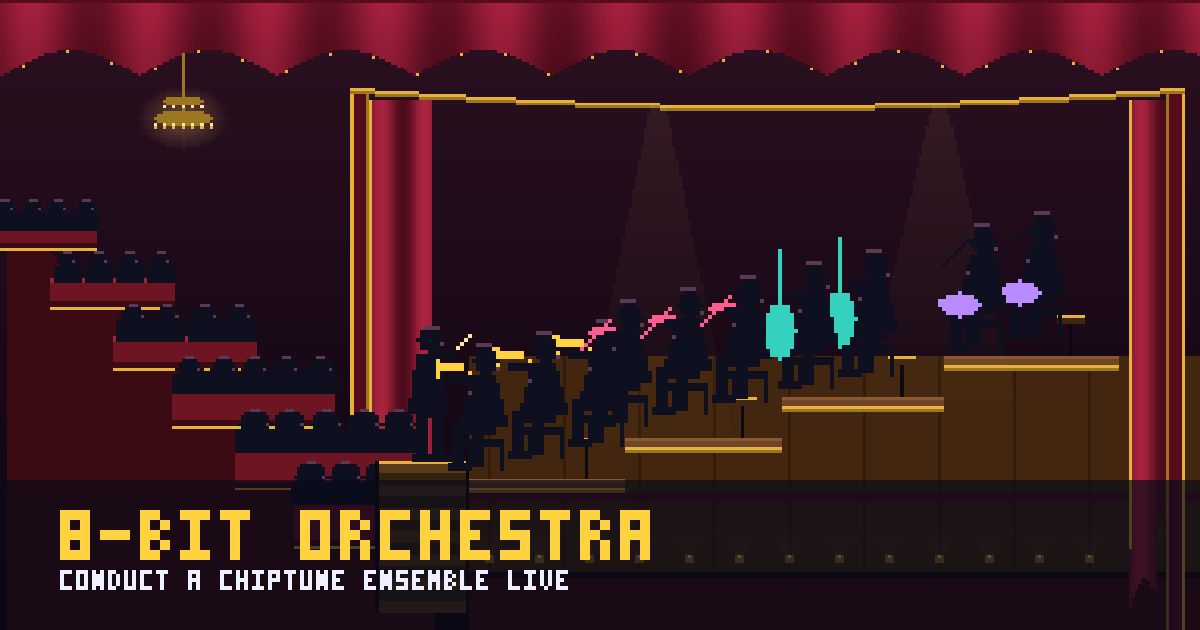
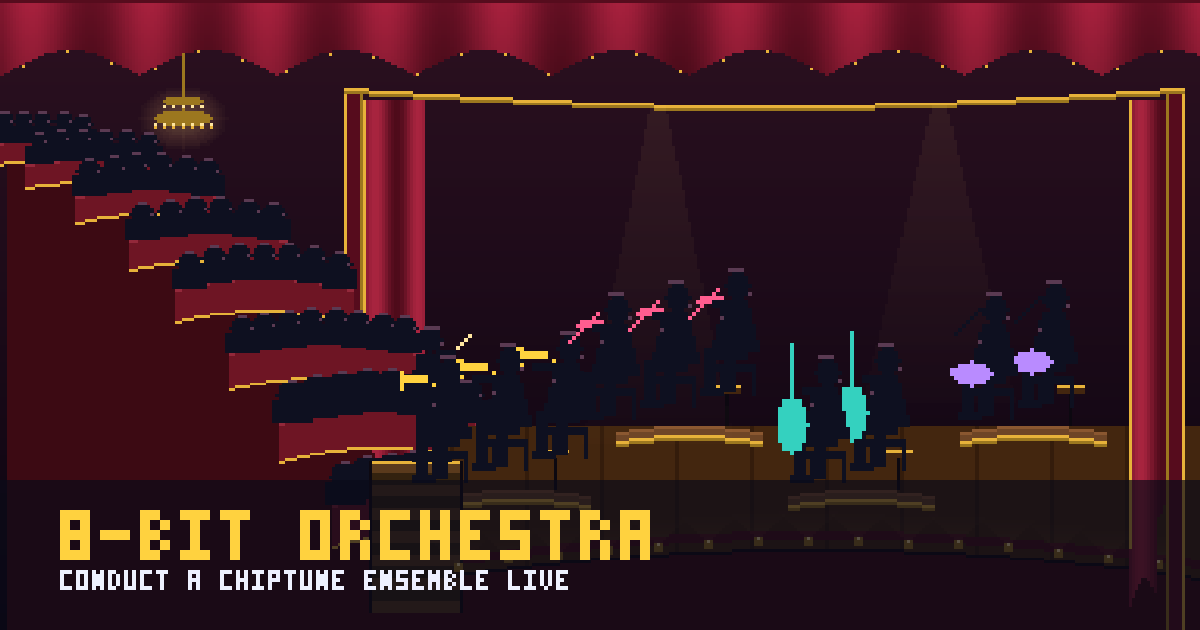
feat: amphitheatre bowl, zig-zag orchestra, title inside the arch
- stage art: the seating is now a concave amphitheatre bowl (rows sweep
  up and around along a curved rake, each bench bowed) and the stage
  front is a rounded apron arc with footlights hugging the curve.
- crowd filled: eight tightly stacked rows packed with patrons.
- orchestra relaid onto two curved tiers in a zig-zag: lead and bass on
  the lower front step, harmony and perc on the upper back step. The
  page spots, the beams, and the card/contact-sheet anchors all follow.
- title moved inside the proscenium opening, centred under the arch, and
  reparented into the stage box so it holds against the stage at every
  viewport instead of drifting on mobile.

Verified cold, lit, and at 390x844 via headless screenshots.

diff --git a/src/styles/global.css b/src/styles/global.css
@@ -82,14 +82,19 @@ header nav {
   object-fit: fill; /* stage matches the art's aspect, so no distortion */
 }
 
+/* The show title hangs inside the proscenium opening (the framed "main view"
+   rectangle), centred under the arch in the dark air above the players, rather
+   than floating in the top-left corner over the house. */
 .show-title {
   position: absolute;
-  top: 4%;
-  left: 4%;
+  top: 17%;
+  left: 63%;
+  transform: translateX(-50%);
   margin: 0;
   z-index: 6;
   font-size: clamp(0.7rem, 2.2vw, 1.6rem);
   color: #fff;
+  text-align: center;
   text-shadow: var(--pixel) var(--pixel) 0 var(--line);
   letter-spacing: 1px;
   pointer-events: none;
